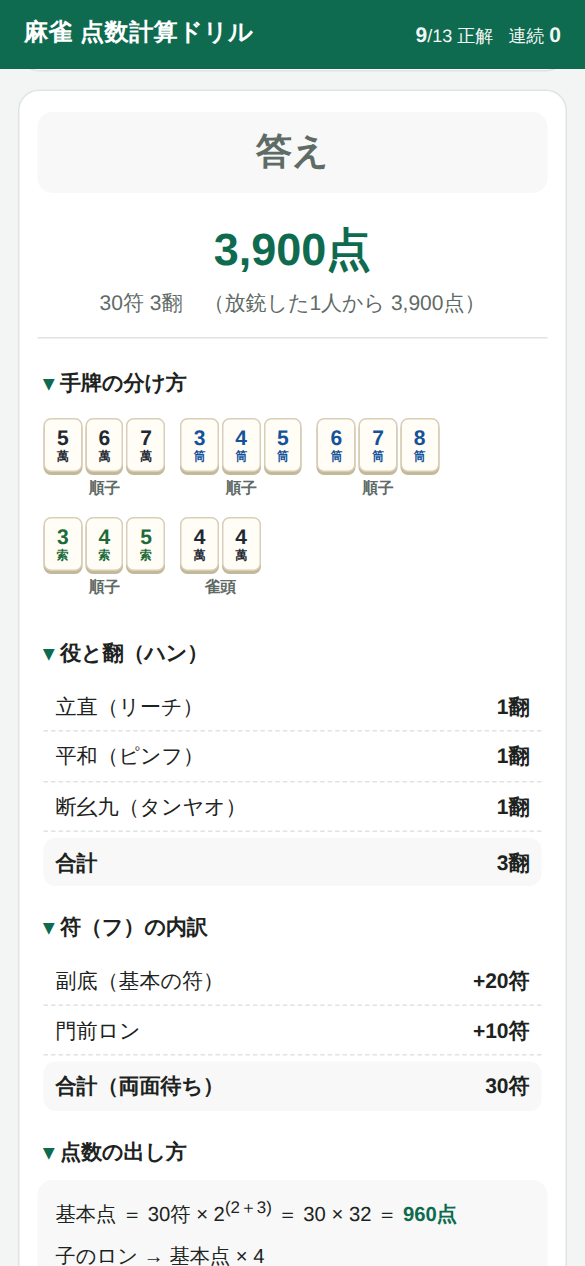
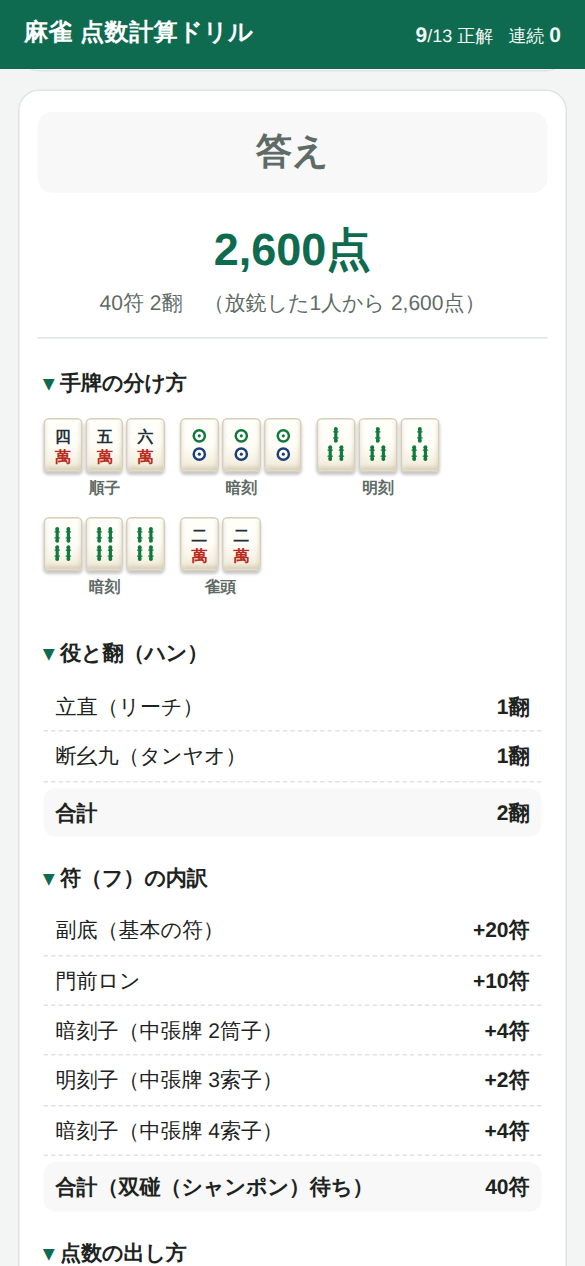
牌の見た目を実際の麻雀牌らしいデザインに変更
文字表示（「3」＋「筒」など）をやめ、本物の牌と同じ絵柄をSVGで描画するようにした。

- js/tile-art.js を追加。萬子＝漢数字＋赤い「萬」、筒子＝色付きの円、
  索子＝竹（一索は鳥）、字牌＝東南西北發中と白の枠、を図形で描画
- 牌の面にツヤと立体感（グラデーション・内側の影）を追加
- 解説の牌表記を「4p」から「4筒」に統一
- 画像ファイルを使わないため通信不要で、拡大してもぼやけない

Claude-Session: https://claude.ai/code/session_0187LDnT5LPDNhY9wvTpAG17

diff --git a/js/tile-art.js b/js/tile-art.js
@@ -1,0 +1,190 @@
+/*
+ * tile-art.js - 麻雀牌の絵柄をSVG（図形）で描くファイル
+ *
+ * 画像ファイルを使わず、線や円をその場で描いています。
+ * そのため通信が不要で、どんな画面サイズでもきれいに表示されます。
+ *
+ * 牌の面は 60 × 84 のマス目として描いています（左上が 0,0）。
+ */
+var MJ = (typeof MJ !== 'undefined') ? MJ : {};
+
+(function (ns) {
+  'use strict';
+
+  var BLUE  = '#1b3f7a';
+  var GREEN = '#0e7a3c';
+  var RED   = '#bb2a20';
+  var INK   = '#22303a';
+
+  var KANJI = ['一', '二', '三', '四', '五', '六', '七', '八', '九'];
+  var MINCHO = "'Hiragino Mincho ProN','Yu Mincho','Noto Serif JP','Songti SC',serif";
+
+  function svg(inner) {
+    // 牌の縁に余白をとるため、絵柄(60x84)より少し広い範囲を表示する
+    return '<svg viewBox="-5 -6 70 96" xmlns="http://www.w3.org/2000/svg" ' +
+           'focusable="false" aria-hidden="true">' + inner + '</svg>';
+  }
+
+  function text(str, y, size, color, weight) {
+    return '<text x="30" y="' + y + '" text-anchor="middle" font-size="' + size +
+      '" fill="' + color + '" font-family="' + MINCHO + '" font-weight="' +
+      (weight || 700) + '">' + str + '</text>';
+  }
+
+  // ---------------------------------------------------------------
+  // 筒子（ピンズ）＝ 円
+  // ---------------------------------------------------------------
+  function dot(cx, cy, r, color) {
+    return '<circle cx="' + cx + '" cy="' + cy + '" r="' + r + '" fill="#fff" stroke="' +
+             color + '" stroke-width="' + (r * 0.44).toFixed(2) + '"/>' +
+           '<circle cx="' + cx + '" cy="' + cy + '" r="' + (r * 0.28).toFixed(2) +
+             '" fill="' + color + '"/>';
+  }
+
+  /** 一筒だけは大きな飾り円 */
+  function bigDot() {
+    return '<circle cx="30" cy="42" r="19" fill="#fff" stroke="' + BLUE + '" stroke-width="4"/>' +
+           '<circle cx="30" cy="42" r="12.5" fill="#fff" stroke="' + RED + '" stroke-width="4"/>' +
+           '<circle cx="30" cy="42" r="5" fill="' + BLUE + '"/>';
+  }
+
+  // [x, y, 色] の並びで筒子の配置を決める
+  var PIN_LAYOUT = {
+    2: { r: 11, dots: [[30, 24, GREEN], [30, 60, BLUE]] },
+    3: { r: 10, dots: [[15, 20, BLUE], [30, 42, GREEN], [45, 64, RED]] },
+    4: { r: 11, dots: [[19, 25, BLUE], [41, 25, GREEN], [19, 59, GREEN], [41, 59, BLUE]] },
+    5: { r: 9,  dots: [[17, 22, BLUE], [43, 22, GREEN], [30, 42, RED],
+                       [17, 62, GREEN], [43, 62, BLUE]] },
+    6: { r: 9,  dots: [[19, 20, GREEN], [41, 20, GREEN], [19, 42, RED], [41, 42, RED],
+                       [19, 64, RED], [41, 64, RED]] },
+    7: { r: 8,  dots: [[14, 15, GREEN], [30, 23, GREEN], [46, 31, GREEN],
+                       [20, 53, RED], [40, 53, RED], [20, 71, RED], [40, 71, RED]] },
+    8: { r: 8,  dots: [[20, 15, BLUE], [40, 15, BLUE], [20, 33, BLUE], [40, 33, BLUE],
+                       [20, 51, BLUE], [40, 51, BLUE], [20, 69, BLUE], [40, 69, BLUE]] },
+    9: { r: 8.5, dots: [[15, 21, GREEN], [30, 21, GREEN], [45, 21, GREEN],
+                        [15, 42, RED], [30, 42, RED], [45, 42, RED],
+                        [15, 63, BLUE], [30, 63, BLUE], [45, 63, BLUE]] }
+  };
+
+  function pinzu(n) {
+    if (n === 1) return svg(bigDot());
+    var conf = PIN_LAYOUT[n];
+    var out = '';
+    for (var i = 0; i < conf.dots.length; i++) {
+      out += dot(conf.dots[i][0], conf.dots[i][1], conf.r, conf.dots[i][2]);
+    }
+    return svg(out);
+  }
+
+  // ---------------------------------------------------------------
+  // 索子（ソウズ）＝ 竹。1索だけは鳥
+  // ---------------------------------------------------------------
+  function bamboo(cx, cy, h, color) {
+    var w = h * 0.22;
+    var top = cy - h / 2, bottom = cy + h / 2;
+    return '<g fill="' + color + '">' +
+      '<rect x="' + (cx - w / 2) + '" y="' + top + '" width="' + w + '" height="' + h +
+        '" rx="' + (w / 2) + '"/>' +
+      '<rect x="' + (cx - w * 0.9) + '" y="' + (top + h * 0.24) + '" width="' + (w * 1.8) +
+        '" height="' + (h * 0.09) + '" rx="' + (h * 0.045) + '"/>' +
+      '<rect x="' + (cx - w * 0.9) + '" y="' + (bottom - h * 0.33) + '" width="' + (w * 1.8) +
+        '" height="' + (h * 0.09) + '" rx="' + (h * 0.045) + '"/>' +
+      '<circle cx="' + cx + '" cy="' + (top + w * 0.4) + '" r="' + (w * 0.62) + '"/>' +
+      '<circle cx="' + cx + '" cy="' + (bottom - w * 0.4) + '" r="' + (w * 0.62) + '"/>' +
+      '</g>';
+  }
+
+  /** 一索の鳥 */
+  function bird() {
+    return '<g>' +
+      // 尾
+      '<path d="M25 52 L8 74 L14 76 L27 60 Z" fill="' + GREEN + '"/>' +
+      '<path d="M28 55 L14 78 L21 79 L31 62 Z" fill="' + GREEN + '" opacity=".75"/>' +
+      // 体
+      '<ellipse cx="31" cy="47" rx="12" ry="15" fill="' + GREEN + '"/>' +
+      // 羽
+      '<ellipse cx="28" cy="46" rx="6.5" ry="11" fill="#fff" opacity=".35"/>' +
+      // 首と頭
+      '<path d="M31 34 C31 26 34 21 39 20 L43 26 C39 28 37 32 37 37 Z" fill="' + GREEN + '"/>' +
+      '<circle cx="40" cy="20" r="7" fill="' + GREEN + '"/>' +
+      '<circle cx="42" cy="18.5" r="1.9" fill="#fff"/>' +
+      // くちばし
+      '<path d="M46 18 L54 21 L46 24 Z" fill="' + RED + '"/>' +
+      // 足と止まり木
+      '<rect x="29" y="60" width="2.4" height="9" fill="' + RED + '"/>' +
+      '<rect x="34" y="59" width="2.4" height="10" fill="' + RED + '"/>' +
+      '<rect x="18" y="68" width="26" height="3.4" rx="1.7" fill="' + RED + '"/>' +
+      '</g>';
+  }
+
+  var SOU_LAYOUT = {
+    2: { h: 30, sticks: [[30, 24, GREEN], [30, 60, GREEN]] },
+    3: { h: 28, sticks: [[30, 22, GREEN], [19, 58, GREEN], [41, 58, GREEN]] },
+    4: { h: 28, sticks: [[19, 24, GREEN], [41, 24, GREEN], [19, 60, GREEN], [41, 60, GREEN]] },
+    5: { h: 26, sticks: [[17, 22, GREEN], [43, 22, GREEN], [30, 42, RED],
+                         [17, 62, GREEN], [43, 62, GREEN]] },
+    6: { h: 28, sticks: [[15, 24, GREEN], [30, 24, GREEN], [45, 24, GREEN],
+                         [15, 60, GREEN], [30, 60, GREEN], [45, 60, GREEN]] },
+    7: { h: 20, sticks: [[30, 15, RED],
+                         [15, 42, GREEN], [30, 42, GREEN], [45, 42, GREEN],
+                         [15, 68, GREEN], [30, 68, GREEN], [45, 68, GREEN]] },
+    8: { h: 28, sticks: [[12, 24, GREEN], [24, 24, GREEN], [36, 24, GREEN], [48, 24, GREEN],
+                         [12, 60, GREEN], [24, 60, GREEN], [36, 60, GREEN], [48, 60, GREEN]] },
+    9: { h: 20, sticks: [[15, 16, GREEN], [30, 16, GREEN], [45, 16, GREEN],
+                         [15, 42, GREEN], [30, 42, GREEN], [45, 42, GREEN],
+                         [15, 68, GREEN], [30, 68, GREEN], [45, 68, GREEN]] }
+  };
+
+  function souzu(n) {
+    if (n === 1) return svg(bird());
+    var conf = SOU_LAYOUT[n];
+    var out = '';
+    for (var i = 0; i < conf.sticks.length; i++) {
+      out += bamboo(conf.sticks[i][0], conf.sticks[i][1], conf.h, conf.sticks[i][2]);
+    }
+    return svg(out);
+  }
+
+  // ---------------------------------------------------------------
+  // 萬子（マンズ）＝ 漢数字 ＋ 萬
+  // ---------------------------------------------------------------
+  function manzu(n) {
+    return svg(text(KANJI[n - 1], 36, 31, INK) + text('萬', 75, 31, RED));
+  }
+
+  // ---------------------------------------------------------------
+  // 字牌（ジハイ）
+  // ---------------------------------------------------------------
+  function honor(t) {
+    if (t === ns.HAKU) {
+      // 白は「枠だけ」の牌
+      return svg('<rect x="9" y="11" width="42" height="62" rx="4" fill="none" stroke="' +
+        BLUE + '" stroke-width="3.2"/>' +
+        '<rect x="14" y="16" width="32" height="52" rx="2" fill="none" stroke="' +
+        BLUE + '" stroke-width="1.4"/>');
+    }
+    var char = ns.HONOR_LABELS[t - 27];
+    var color = t === ns.HATSU ? GREEN : (t === ns.CHUN ? RED : INK);
+    return svg(text(char, 60, 42, color));
+  }
+
+  // ---------------------------------------------------------------
+  // 牌インデックス → SVG
+  // ---------------------------------------------------------------
+  var cache = {};
+
+  ns.tileSVG = function (t) {
+    if (cache[t]) return cache[t];
+    var out;
+    if (ns.isHonor(t)) out = honor(t);
+    else {
+      var n = ns.numberOf(t);
+      var suit = ns.suitOf(t);
+      out = suit === 0 ? manzu(n) : suit === 1 ? pinzu(n) : souzu(n);
+    }
+    cache[t] = out;
+    return out;
+  };
+})(MJ);
+
+if (typeof module !== 'undefined' && module.exports) module.exports = MJ;

diff --git a/css/style.css b/css/style.css
@@ -164,40 +164,36 @@ body {
 }
 
 /* ---------- 牌 ---------- */
+/* 牌の絵柄は js/tile-art.js がSVG（図形）で描いています */
 .tile {
   width: clamp(30px, 8.4vw, 42px);
   aspect-ratio: 3 / 4.2;
-  background: var(--tile-face);
+  background:
+    radial-gradient(120% 90% at 50% 8%, #fffef9 0%, var(--tile-face) 55%, #f0ead8 100%);
   border: 1px solid var(--tile-edge);
-  border-radius: 5px;
-  box-shadow: 0 2px 0 var(--tile-shadow);
-  display: flex;
-  flex-direction: column;
-  align-items: center;
-  justify-content: center;
-  line-height: 1;
-  font-weight: 700;
-  color: #222;
+  border-radius: 14%/10%;
+  box-shadow:
+    inset 0 1px 0 rgba(255,255,255,.95),
+    inset 0 -2px 3px rgba(140,124,90,.28),
+    inset 2px 0 2px rgba(255,255,255,.6),
+    0 2px 2px rgba(0,0,0,.22);
   user-select: none;
+  flex: 0 0 auto;
 }
-.tile .num { font-size: clamp(15px, 4.4vw, 20px); }
-.tile .suit { font-size: clamp(9px, 2.6vw, 11px); margin-top: 2px; }
-.tile .honor { font-size: clamp(15px, 4.2vw, 20px); }
-.tile.m { color: #1f2933; }
-.tile.p { color: #14539a; }
-.tile.s { color: #1c6b3a; }
-.tile.z { color: #2b3a34; }
-.tile.z-haku { color: #4a5a6a; }
-.tile.z-hatsu { color: #1c6b3a; }
-.tile.z-chun { color: #b3261e; }
-.tile.win { box-shadow: 0 0 0 2px #e8b83a, 0 2px 0 var(--tile-shadow); }
+.tile svg {
+  display: block;
+  width: 100%;
+  height: 100%;
+}
+.tile.win {
+  box-shadow:
+    0 0 0 2px #e8b83a,
+    inset 0 1px 0 rgba(255,255,255,.95),
+    inset 0 -2px 3px rgba(140,124,90,.28),
+    0 2px 2px rgba(0,0,0,.22);
+}
 .tile.small { width: clamp(24px, 6.6vw, 32px); }
-.tile.small .num { font-size: clamp(12px, 3.6vw, 15px); }
-.tile.small .honor { font-size: clamp(12px, 3.6vw, 15px); }
-.tile.small .suit { font-size: 8px; }
-.tile.tiny { width: 21px; border-radius: 4px; box-shadow: 0 1px 0 var(--tile-shadow); }
-.tile.tiny .num, .tile.tiny .honor { font-size: 11px; }
-.tile.tiny .suit { font-size: 7px; margin-top: 1px; }
+.tile.tiny { width: 21px; box-shadow: inset 0 1px 0 rgba(255,255,255,.9), 0 1px 1px rgba(0,0,0,.2); }
 
 /* ---------- 回答エリア ---------- */
 .ask {

diff --git a/js/app.js b/js/app.js
@@ -43,18 +43,12 @@
   // ---------------------------------------------------------------
   function tileEl(t, opts) {
     opts = opts || {};
-    var label = MJ.label(t);
     var el = document.createElement('div');
-    el.className = 'tile ' + label.suit + (opts.small ? ' small' : '') +
+    el.className = 'tile' + (opts.small ? ' small' : '') +
       (opts.tiny ? ' tiny' : '') + (opts.win ? ' win' : '');
-    if (label.suit === 'z') {
-      var honorClass = { '白': 'z-haku', '發': 'z-hatsu', '中': 'z-chun' }[label.main];
-      if (honorClass) el.classList.add(honorClass);
-      el.innerHTML = '<span class="honor">' + label.main + '</span>';
-    } else {
-      el.innerHTML = '<span class="num">' + label.main + '</span><span class="suit">' + label.sub + '</span>';
-    }
-    el.setAttribute('aria-label', MJ.name(t));
+    el.innerHTML = MJ.tileSVG(t);
+    el.setAttribute('role', 'img');
+    el.setAttribute('aria-label', MJ.readableName(t));
     return el;
   }
 

diff --git a/js/tiles.js b/js/tiles.js
@@ -71,6 +71,12 @@ var MJ = (typeof MJ !== 'undefined') ? MJ : {};
     return numberOf(t) + ['m', 'p', 's'][suitOf(t)];
   }
 
+  /** 「3萬」「5筒」「東」のような読み上げ用の名前（画面の読み上げ機能で使う） */
+  function readableName(t) {
+    if (isHonor(t)) return HONOR_LABELS[t - 27];
+    return numberOf(t) + ['萬子', '筒子', '索子'][suitOf(t)];
+  }
+
   /** ドラ表示牌 → 実際のドラ（次の牌） */
   function doraFromIndicator(t) {
     if (isWind(t)) return 27 + ((t - 27 + 1) % 4);      // 東→南→西→北→東
@@ -99,6 +105,7 @@ var MJ = (typeof MJ !== 'undefined') ? MJ : {};
   ns.isSimple = isSimple;
   ns.label = label;
   ns.name = name;
+  ns.readableName = readableName;
   ns.doraFromIndicator = doraFromIndicator;
   ns.toCounts = toCounts;
   ns.HONOR_LABELS = HONOR_LABELS;

diff --git a/js/score.js b/js/score.js
@@ -311,7 +311,7 @@ var MJ = (typeof MJ !== 'undefined') ? MJ : {};
     var kind = ns.isYaochu(g.tile) ? '幺九牌' : '中張牌';
     var open = g.open ? '明' : '暗';
     var type = g.type === 'kan' ? '槓' : '刻';
-    return open + type + '子（' + kind + ' ' + ns.name(g.tile) + '）';
+    return open + type + '子（' + kind + ' ' + ns.readableName(g.tile) + '）';
   }
 
   var WAIT_LABEL = {

diff --git a/index.html b/index.html
@@ -143,6 +143,7 @@
 </footer>
 
 <script src="js/tiles.js"></script>
+<script src="js/tile-art.js"></script>
 <script src="js/score.js"></script>
 <script src="js/generator.js"></script>
 <script src="js/app.js"></script>

diff --git a/README.md b/README.md
@@ -82,6 +82,7 @@ GitHubの無料プランでは、非公開（Private）リポジトリのGitHub 
 ## 技術について（初心者向けメモ）
 
 **HTML + CSS + JavaScript だけ**で作っています。ReactやNode.jsなどのツールは使っていません。
+牌の絵柄も画像ファイルではなくSVG（図形）で描いているので、読み込みが速く、どんな画面サイズでもぼやけません。
 理由は、①ビルド（変換作業）が不要でファイルを開けばすぐ動く、②コードを書き換えて保存 → ブラウザを更新するだけで結果が見える、③GitHub Pagesにそのまま置ける、からです。
 
 ### ファイル構成
@@ -90,6 +91,7 @@ GitHubの無料プランでは、非公開（Private）リポジトリのGitHub 
 index.html        画面の骨組み（どこに何を置くか）
 css/style.css     見た目（色・大きさ・スマホ向けレイアウト）
 js/tiles.js       牌のあつかい方（牌を0〜33の数字で表す）
+js/tile-art.js    牌の絵柄をSVG（図形）で描画（画像ファイル不要）
 js/score.js       点数計算エンジン（手牌の分解・役判定・符・点数）★このアプリの心臓部
 js/generator.js   ランダムな問題づくり
 js/app.js         画面の操作（表示・入力・答え合わせ）
@@ -113,6 +115,7 @@ node tests/test.js
 
 - 出題の傾向を変える → `js/generator.js` の `DIFFICULTY`（順子の出やすさ・鳴きの割合など）
 - 色やサイズを変える → `css/style.css` の先頭にある `:root { --green: ... }` の部分
+- 牌の絵柄を変える → `js/tile-art.js`（筒子の円の位置、索子の竹の並びなどを数字で指定しています）
 - 役を追加する → `js/score.js` の `detectYaku()`
 
 ---
